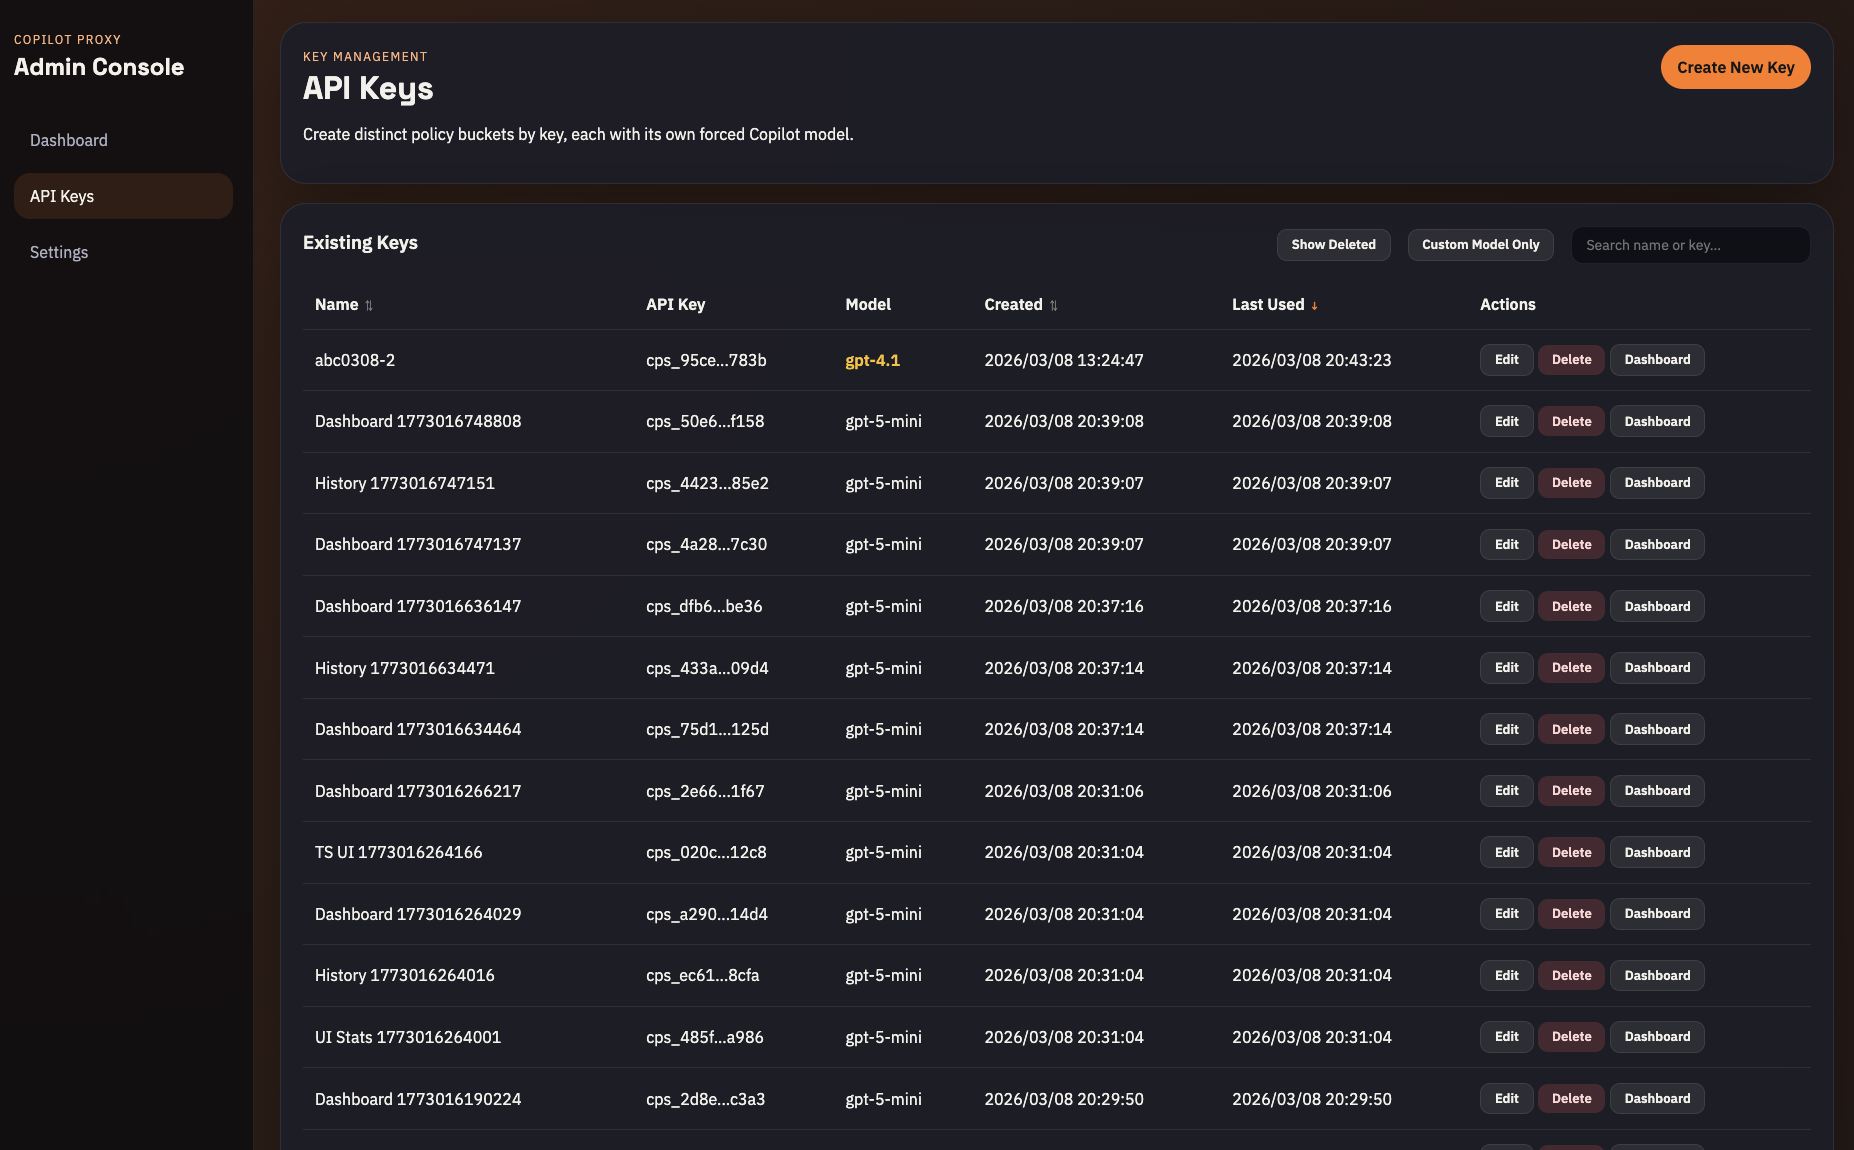
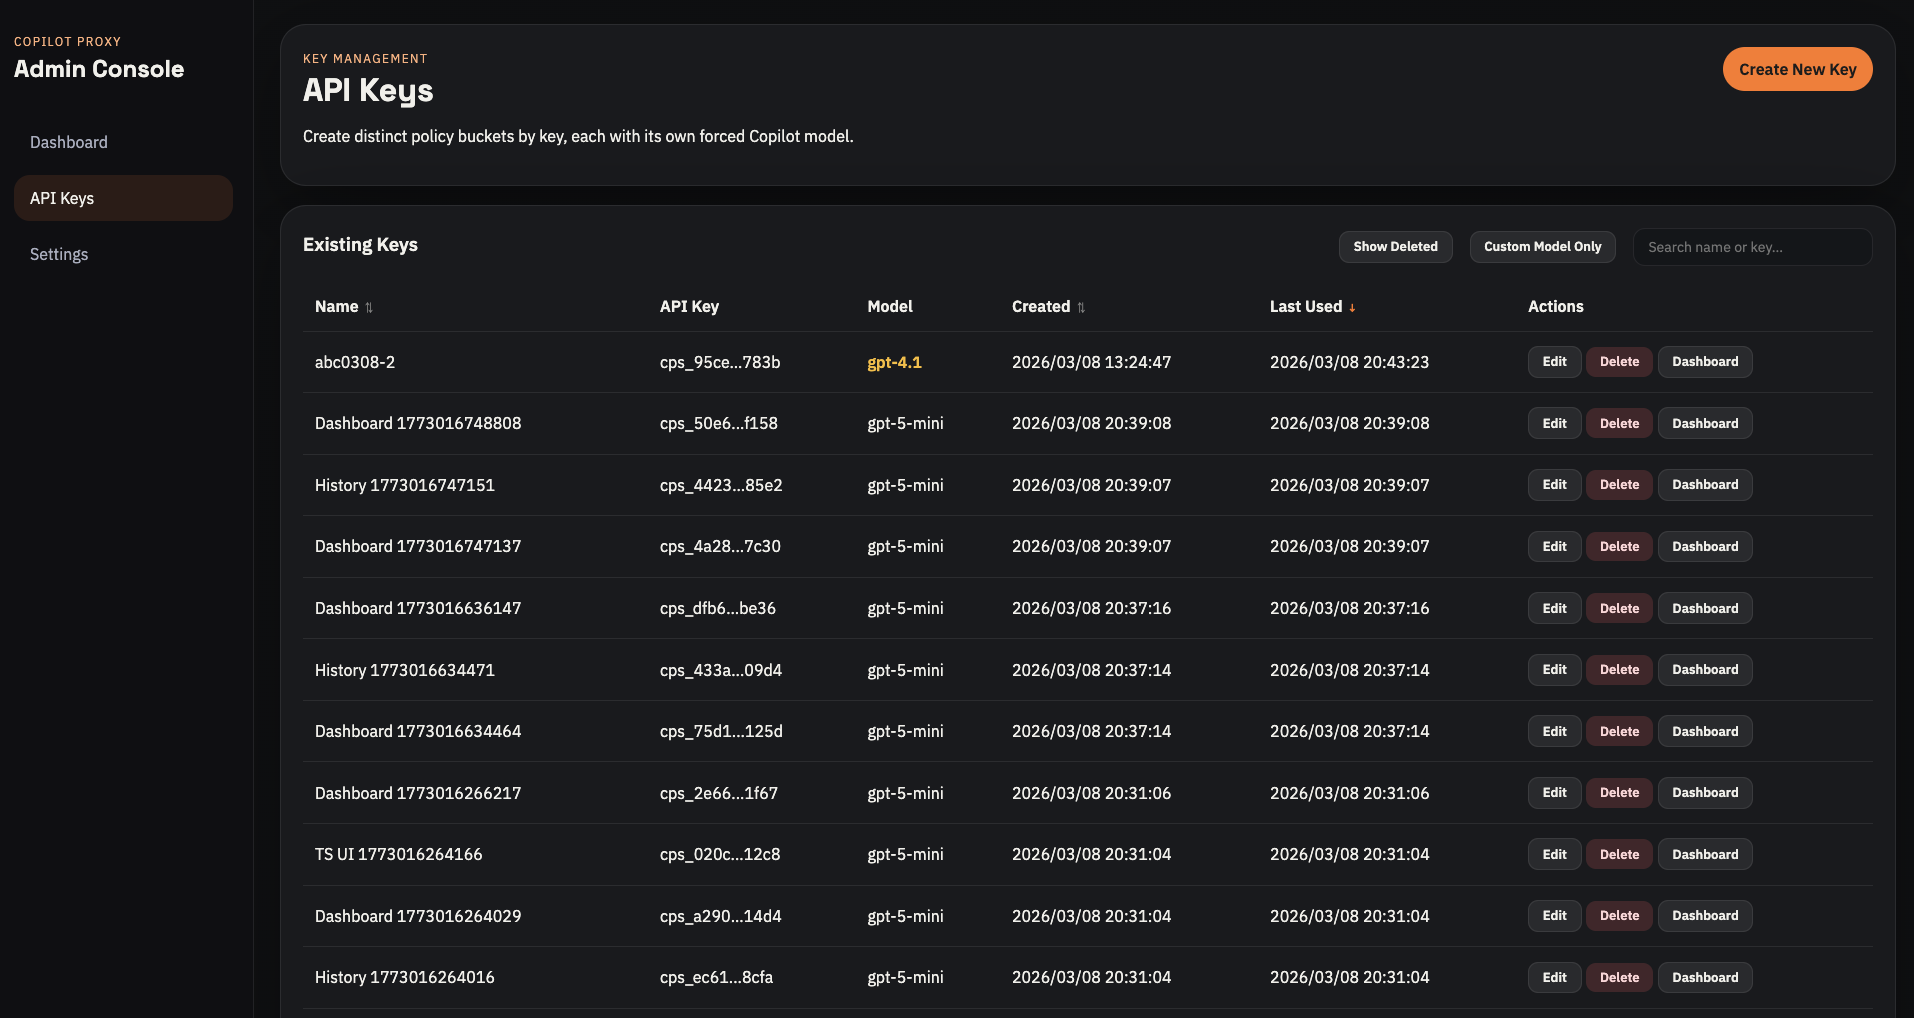
Use dark background

diff --git a/ui/src/styles.css b/ui/src/styles.css
@@ -1,9 +1,9 @@
 :root {
   color-scheme: dark;
   font-family: "IBM Plex Sans", sans-serif;
-  --bg: #12131a;
-  --panel: rgba(27, 29, 39, 0.9);
-  --panel-strong: rgba(34, 36, 48, 0.96);
+  --bg: #0a0b0f;
+  --panel: rgba(18, 19, 24, 0.95);
+  --panel-strong: rgba(22, 23, 28, 0.98);
   --text: #f2f1eb;
   --muted: #abafc1;
   --accent: #ff7a18;
@@ -22,9 +22,7 @@ body {
   min-height: 100vh;
   color: var(--text);
   background:
-    radial-gradient(circle at top left, rgba(255, 122, 24, 0.18), transparent 28%),
-    radial-gradient(circle at bottom right, rgba(46, 112, 255, 0.16), transparent 24%),
-    linear-gradient(160deg, #0a0c11 0%, #151923 48%, #11141c 100%);
+    linear-gradient(165deg, #060709 0%, #0a0b0f 45%, #08090c 100%);
 }
 
 button,
@@ -56,7 +54,7 @@ input {
   width: 100%;
   border-radius: 14px;
   border: 1px solid var(--border);
-  background: rgba(10, 12, 18, 0.72);
+  background: rgba(12, 13, 17, 0.9);
   color: var(--text);
   padding: 0.85rem 1rem;
 }
@@ -73,7 +71,7 @@ input {
 .sidebar {
   padding: 2rem 1.25rem;
   border-right: 1px solid var(--border);
-  background: rgba(8, 10, 14, 0.72);
+  background: rgba(6, 7, 10, 0.92);
   backdrop-filter: blur(24px);
   position: fixed;
   top: 0;
@@ -571,7 +569,7 @@ button.secondary:hover,
   width: 100%;
   border-radius: 14px;
   border: 1px solid var(--border);
-  background: rgba(10, 12, 18, 0.72);
+  background: rgba(12, 13, 17, 0.9);
   color: var(--text);
   padding: 0.85rem 2.5rem 0.85rem 1rem;
   font: inherit;
@@ -623,7 +621,7 @@ button.secondary:hover,
   flex-shrink: 0;
   padding: 0.8rem;
   border-radius: 14px;
-  background: rgba(10, 12, 18, 0.5);
+  background: rgba(12, 13, 17, 0.6);
 }
 
 .model-list h4 {
